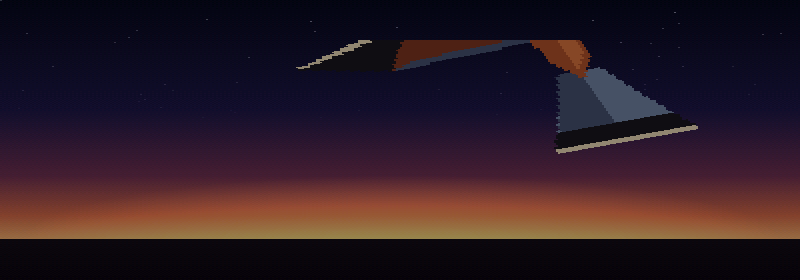
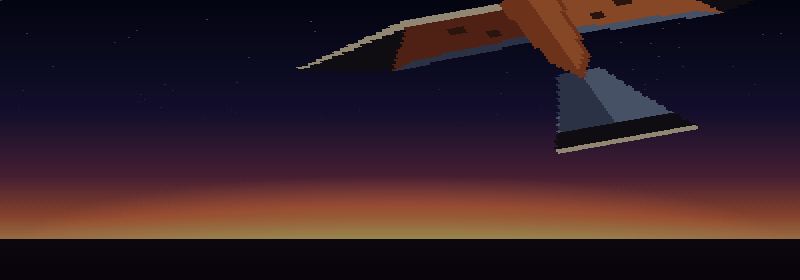
KESTREL BOOT: the bird's plane is an overscan plane, its borders opened by the copper list
The stoop was cut at the visible window while the sky ran to the borders.

Claude-Session: https://claude.ai/code/session_01SWu82rxTTBL8mKTAKqwdFH

Changed region(s): [[0.4375, 0.0, 0.9062, 0.1429]]

diff --git a/prototypes/boot_screen/STUDY.md b/prototypes/boot_screen/STUDY.md
@@ -62,7 +62,8 @@ stoops. The concept is that one gesture: the bird stoops into frame and stops de
 - Palette: the bird in the kestrel's own colours (rufous back, slate-blue head and tail, black wing
   tips and tail band, a cream rim), sky indigo (#080A1E) to ember (#F0A060), wordmark cream.
 - Hardware: plane 0 is an **RGB565 true-colour plane** (400x280, borders open: the Falcon's
-  hi-colour) holding the sky, drawn once at init; its fade in, flash and fade out are the
+  hi-colour) holding the sky, drawn once at init; plane 1 is an 8-bit OVERSCAN plane whose borders the
+  copper list opens (FLICK every line), so the stooping bird runs into them too; the sky's fade in, flash and fade out are the
   **TC_FADE / TC_OFS registers**, one write a frame, no pixel touched. Plane 1 is an 8-bit plane: the
   bird is a 128x128 texture drawn by **CHISEL AFFINE** (a span a row, only the rows the bird covers)
   during the 45-frame stoop and never again; the highlight sweep is a **copper list** (four palette
